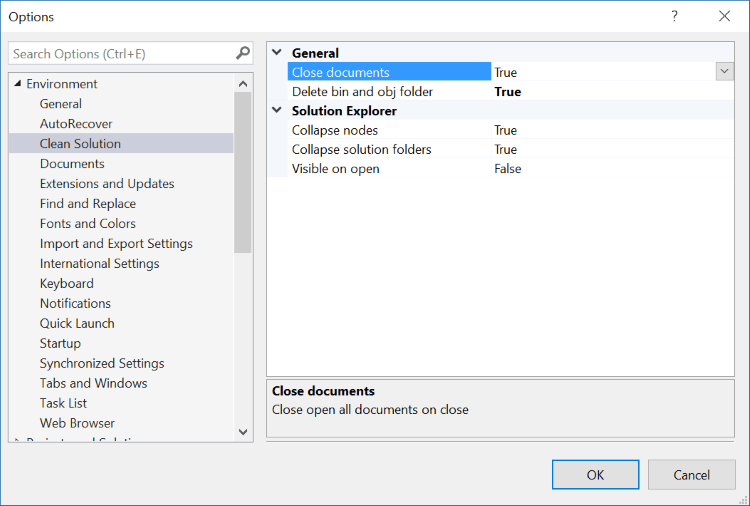
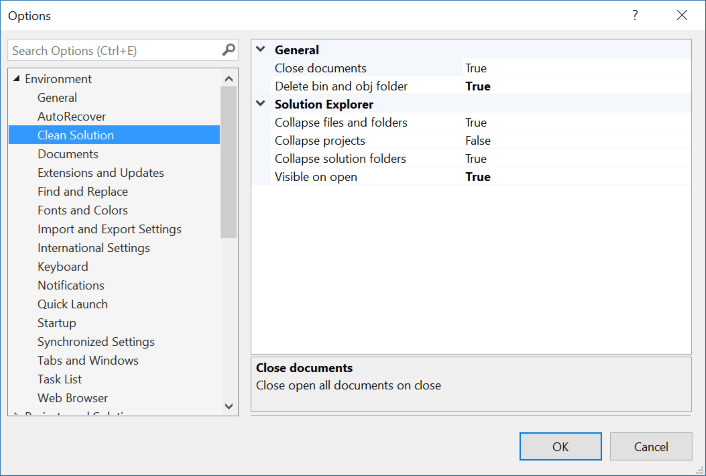
v1.3 [release]

diff --git a/src/source.extension.cs b/src/source.extension.cs
@@ -11,7 +11,7 @@ namespace CloseAllTabs
         public const string Name = "Clean Solution";
         public const string Description = "Cleans up the solution for the next time you open it. Closes open documents and collapses folders automatically when a solution is being closed. ";
         public const string Language = "en-US";
-        public const string Version = "1.2";
+        public const string Version = "1.3";
         public const string Author = "Mads Kristensen";
         public const string Tags = "tabs, cleanup, collapse";
     }

diff --git a/CHANGELOG.md b/CHANGELOG.md
@@ -1,7 +1,6 @@
 # Road map
 
 - [ ] Status bar indicator of the cleanup
-- [x] Option to collapse projects
 
 Features that have a checkmark are complete and available for
 download in the
@@ -12,15 +11,15 @@ download in the
 These are the changes to each version that has been released
 on the official Visual Studio extension gallery.
 
-## 1.2
+## 1.3
 
-**2016-08-12**
+- [x] Option to collapse projects
+
+## 1.2
 
 - [x] Delete bin and obj folders on close
 
 ## 1.0
-
-**2016-08-02**
 
 - [x] Close open documents
 - [x] Collapse Solution Explorer
